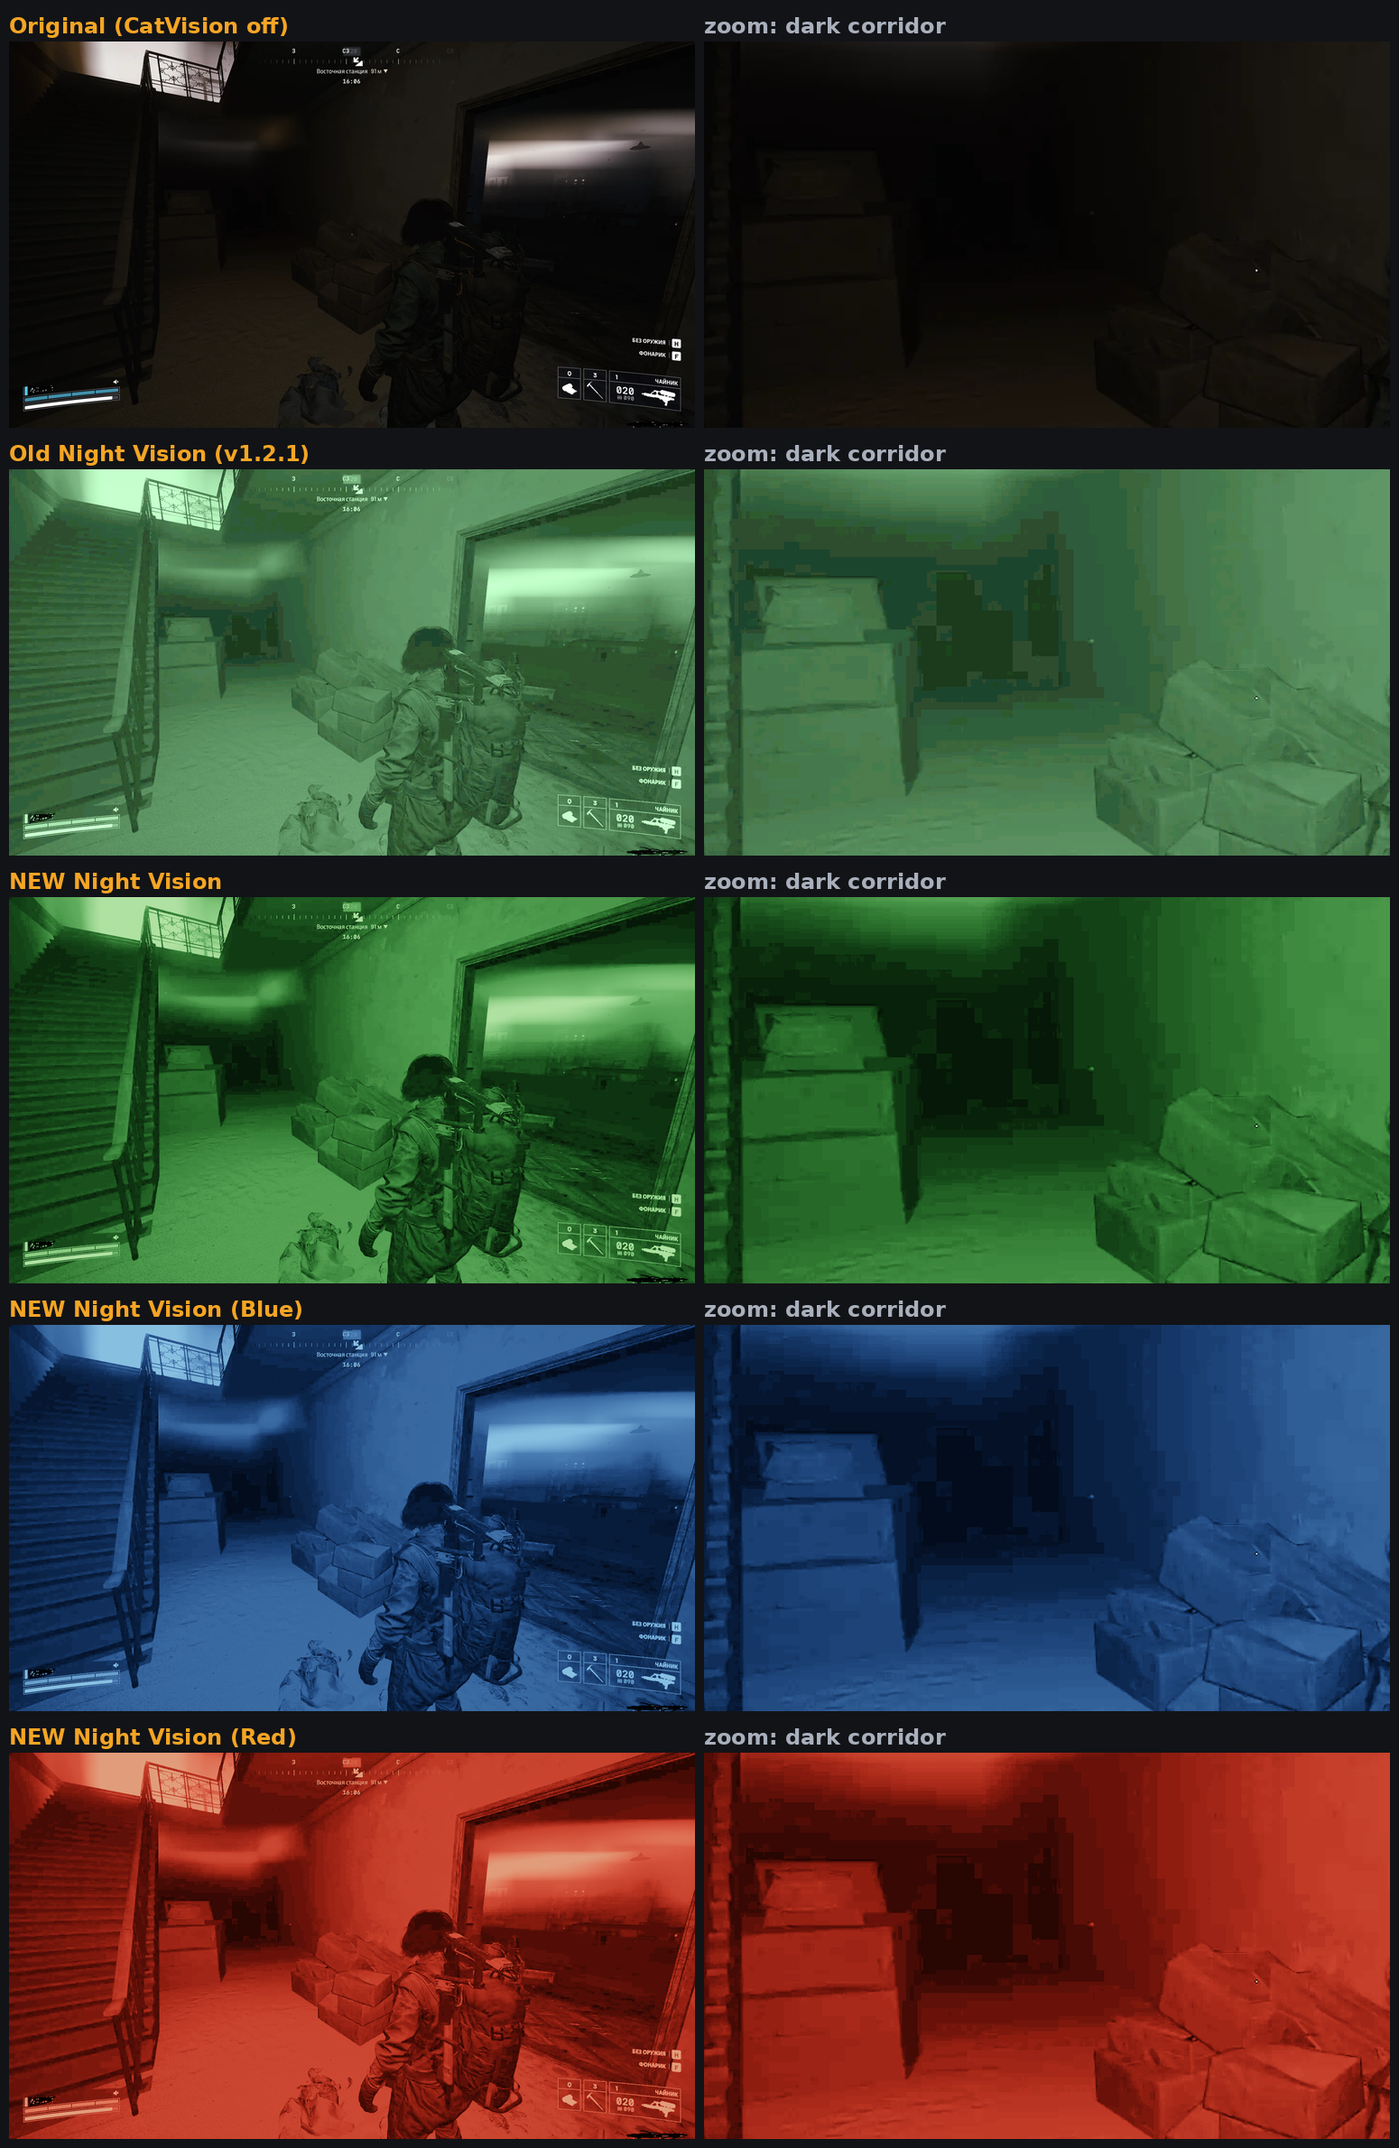
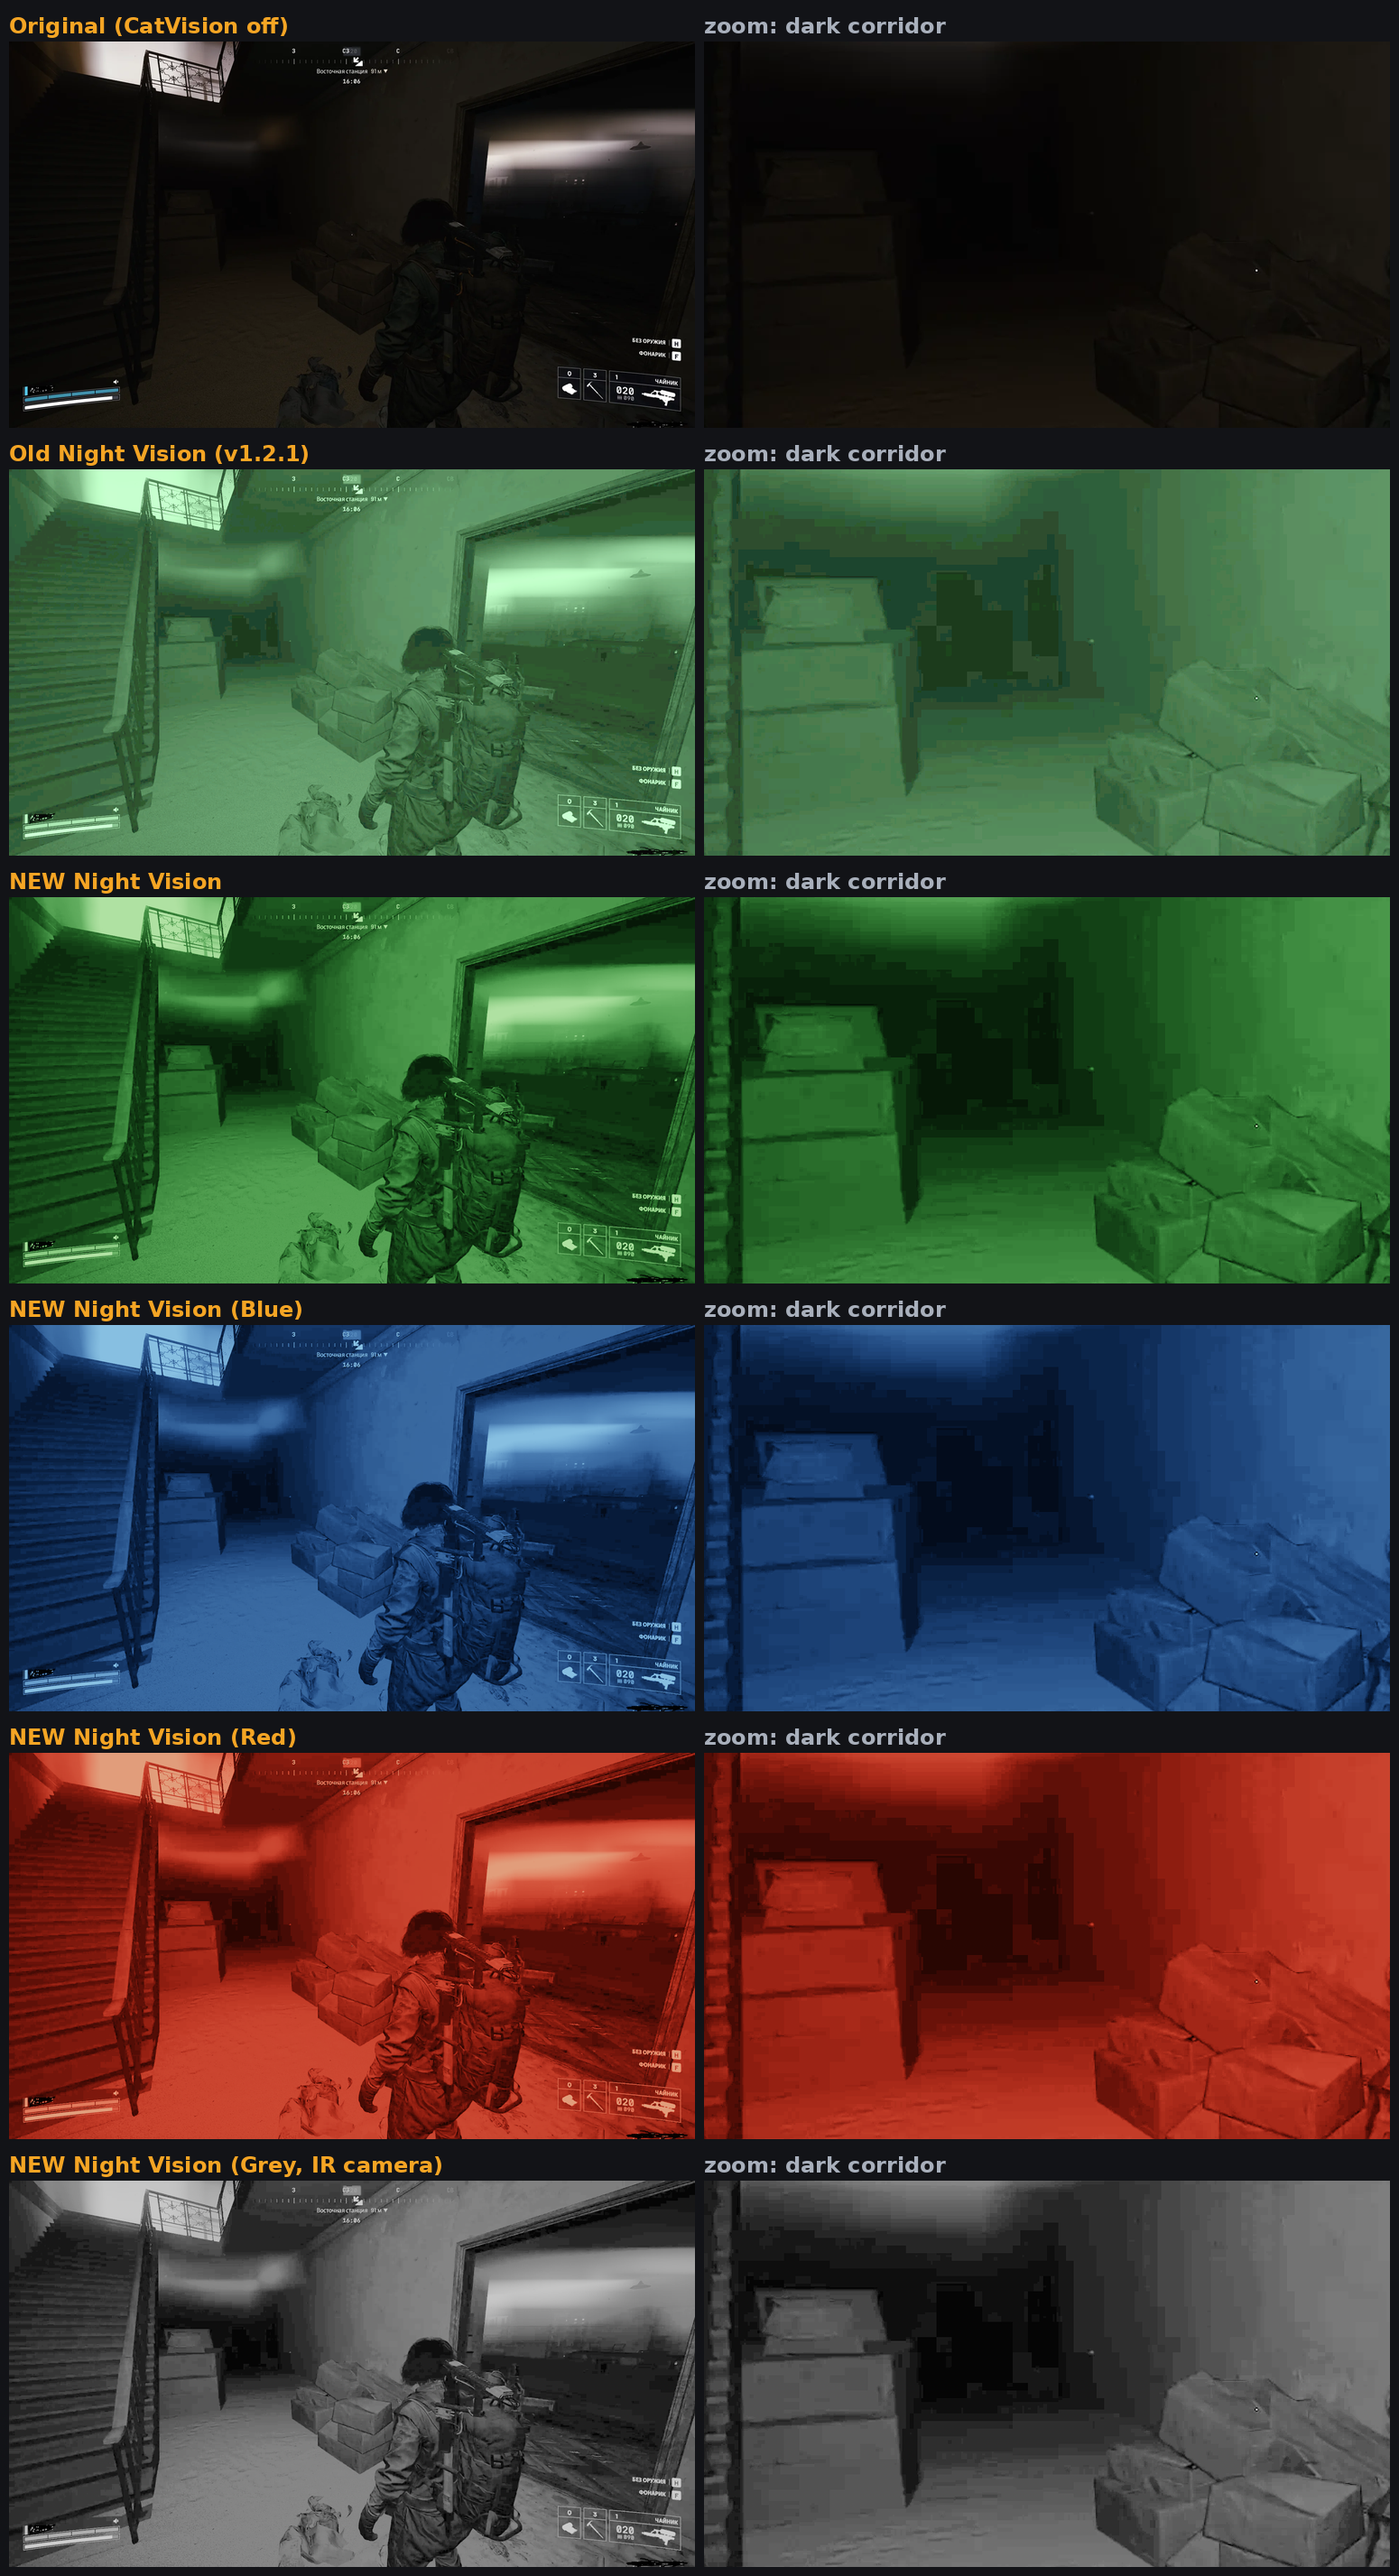
Add Night Vision (Grey): IR-camera style black-and-white night vision
Tuned on the reference screenshot: contrast 1.25 with deep blacks gives
the most dark-area detail of any night vision (edge measure 6.67 vs
green 5.76). Brightness 0.9 keeps the extra contrast from clipping the
brightest tones together, and a lower glare limit (0.80) matches green's
brightest output (204/255), since grey looks brighter at the same level.

Claude-Session: https://claude.ai/code/session_01NxMrhbjKxJ8Vp3LieEXVjH

diff --git a/tests/test_catvision.py b/tests/test_catvision.py
@@ -599,7 +599,8 @@ class AntiGlareTests(unittest.TestCase):
     def test_bright_things_stay_apart_in_night_vision(self):
         """A mid-tone player (level 70) in front of a lit window (level 180)
         must not merge into it, and the brightest output must stay capped."""
-        for name in ("Night Vision", "Night Vision (Blue)", "Night Vision (Red)"):
+        for name in ("Night Vision", "Night Vision (Blue)", "Night Vision (Red)",
+                     "Night Vision (Grey)"):
             s = [p for p in BUILTIN_PRESETS if p.name == name][0].settings
             tint, _m = curves.plan_color(s)
             ramp = curves.build_ramp(s, tint)
@@ -638,3 +639,21 @@ class NoDefaultHotkeysTests(unittest.TestCase):
         self.assertEqual(config.Config.from_json({"hotkeys": suggested_hotkeys()}).hotkeys, {})
         custom = dict(suggested_hotkeys(), toggle="Ctrl+Alt+K")
         self.assertEqual(config.Config.from_json({"hotkeys": custom}).hotkeys["toggle"], "Ctrl+Alt+K")
+
+
+class GreyNightVisionTests(unittest.TestCase):
+    def test_grey_is_neutral_and_greyscale_on_all_displays(self):
+        st = [p for p in BUILTIN_PRESETS if p.name == "Night Vision (Grey)"][0].settings
+        tint, m = curves.plan_color(st, all_displays=True)
+        self.assertFalse(curves.is_identity_matrix(m))        # picture made grey first
+        r, g, b = curves.build_ramp(st, tint)
+        self.assertEqual(r, g)
+        self.assertEqual(g, b)
+        green = [p for p in BUILTIN_PRESETS if p.name == "Night Vision"][0].settings
+        gt, _ = curves.plan_color(green)
+        gr = curves.build_ramp(green, gt)
+        luma = lambda ch, i: 0.2126 * ch[0][i] + 0.7152 * ch[1][i] + 0.0722 * ch[2][i]
+        # IR look: deep blacks, but dark tones spread further apart than green's,
+        # i.e. more visible detail in the dark range games live in (levels 6-32).
+        spread = lambda ch: luma(ch, 32) - luma(ch, 6)
+        self.assertGreater(spread((r, g, b)), spread(gr))

diff --git a/catvision/curves.py b/catvision/curves.py
@@ -47,6 +47,7 @@ COLOR_FILTERS: dict[str, str] = {
     "night_vision": "Night vision (green)",
     "night_vision_blue": "Night vision (blue)",
     "night_vision_red": "Night vision (red)",
+    "night_vision_grey": "Night vision (grey)",
     "amber": "Amber (warm mono, easy on eyes)",
     "ice": "Ice (cool mono)",
     "deuteranopia": "Red-green assist (deuteranopia)",
@@ -311,6 +312,8 @@ TINT_CURVES: dict[str, TintCurve] = {
     # the highlights so a player in front of a lamp never blends into it.
     "night_vision_blue": ((0.10, 0.45, 1.00), (0.60, 0.85, 1.00), 2.0),
     "night_vision_red": ((1.45, 0.22, 0.10), (1.00, 0.70, 0.55), 2.5),
+    # IR-camera / white-phosphor style: plain grey, the brightest-looking color.
+    "night_vision_grey": ((1.0, 1.0, 1.0), (1.0, 1.0, 1.0), 1.0),
     "amber": ((1.0, 0.72, 0.25), (1.0, 0.72, 0.25), 1.0),
     "ice": ((0.55, 0.85, 1.0), (0.55, 0.85, 1.0), 1.0),
 }
@@ -322,6 +325,7 @@ MONO_TINTS: dict[str, tuple[float, float, float]] = {
     "night_vision": (0.30, 1.0, 0.35),
     "night_vision_blue": (0.25, 0.60, 1.00),
     "night_vision_red": (1.00, 0.35, 0.25),
+    "night_vision_grey": (1.00, 1.00, 1.00),
     "amber": (1.0, 0.72, 0.25),
     "ice": (0.55, 0.85, 1.0),
 }

diff --git a/catvision/presets.py b/catvision/presets.py
@@ -56,6 +56,17 @@ BUILTIN_PRESETS: list[Preset] = [
                  color_filter="night_vision_red"),
     ),
     Preset(
+        "Night Vision (Grey)",
+        "Black-and-white night vision like an IR camera: crisp, deep blacks, the most "
+        "detail of any night vision. Bright lights are held back so they never blind you.",
+        # Grey looks brighter than green at the same level, so its glare limit is
+        # lower to keep the brightest output the same as the green preset's.
+        # Brightness 0.9 stops the extra IR contrast from clipping the brightest
+        # tones together (which would bring back bloom at the very top).
+        Settings(exposure=72, anti_glare=70, contrast=1.25, brightness=0.9, black_floor=0.0,
+                 white_cap=0.80, color_filter="night_vision_grey"),
+    ),
+    Preset(
         "Horror / Flashlight",
         "Lifts darkness but caps the brightest whites so flashlights and "
         "lamps don't dazzle you.",

diff --git a/catvision/__init__.py b/catvision/__init__.py
@@ -4,4 +4,4 @@ Changes only what your monitor displays (GPU gamma ramp + Windows
 accessibility color filters). Never touches, reads or injects into games.
 """
 
-__version__ = "1.4.0"
+__version__ = "1.4.1"

diff --git a/README.md b/README.md
@@ -145,6 +145,7 @@ all** removes them again. Everything is also in the tray menu.
 | Night Vision | Like night-vision goggles: deep green shadows, pale highlights, no blinding bloom. Best for very dark games |
 | Night Vision (Blue) | Night vision in cool blue, with the same anti-glare protection |
 | Night Vision (Red) | Night vision in red, with the same anti-glare protection |
+| Night Vision (Grey) | Black-and-white like an IR camera: crisp, deep blacks, the most dark detail of any night vision |
 | Horror / Flashlight | Lifts darkness, stops flashlights and lamps from dazzling |
 | Fog & Haze Cutter | Murky, foggy, smoky scenes |
 | Mixed Light | Dark shadows next to bright skies or explosions |
@@ -209,9 +210,10 @@ about 5x the game on its own.
 - Raise or lower **Exposure** (or use your *More / less boost* hotkeys) for darker or
   brighter games. In **Tune**, raise **Anti-glare** if bright areas still
   hide things, or lower it to see more in the darkest corners.
-- Green shows the most detail, because our eyes see fine detail best in
-  green. Blue and Red are tuned to stay as readable as possible (pure blue or
-  red would be too dark), and still show about 4x the game's own dark detail.
+- **Grey (IR camera)** shows the most dark detail, then green: our eyes see
+  fine detail best in neutral and green tones. Blue and Red are tuned to stay
+  as readable as possible (pure blue or red would be too dark), and still
+  show about 4x the game's own dark detail.
 - With only some displays ticked, night vision stays on those displays, but
   as a colored tint rather than full monochrome (Windows limit).
 
